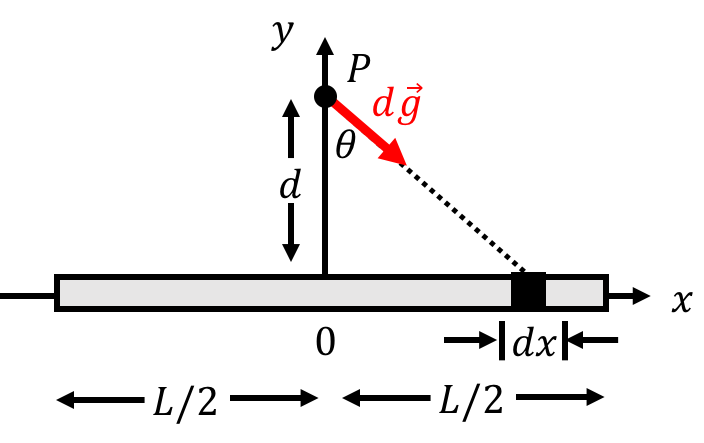
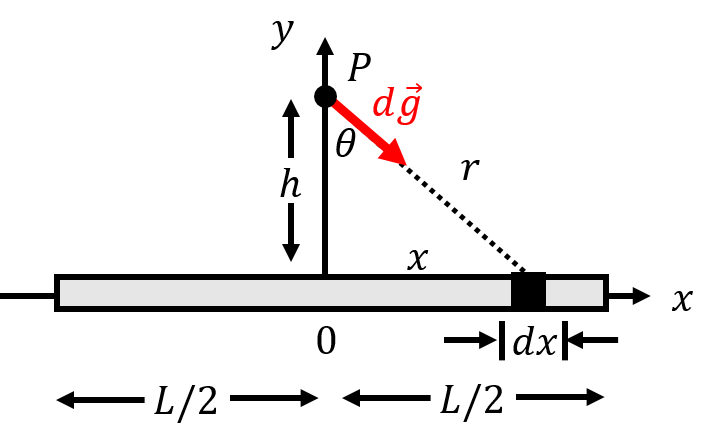
Gravity done

diff --git a/tex/Gravity.tex b/tex/Gravity.tex
@@ -233,13 +233,13 @@ Earth's rotation has some interesting consequences for stationary objects. At an
 
 Take, for example, a plumb line, which consists of a mass hanging from a string. The two forces acting on the mass are gravity and tension. The force of gravity must point towards the centre of the Earth. We would expect that the force of tension, and therefore the string, would point directly away from the centre of the Earth. However, we find that if the plumb line is located at some angle $\theta$ from the equator (but not at the equator or poles), as in Figure \ref{fig:gravity:apparentweight2}, then the string will point slightly away from the centre of the Earth.  In order for the mass to remain stationary relative to the ground, it must rotate along with the Earth (radius $R$) around a circle of radius $R\cos\theta$.   Thus, the tension from the string cannot point away from the centre of the Earth, because the net force must point towards the centre of the circle of radius $R\cos\theta$.
 
-\capfig{0.8\textwidth}{figures/Gravity/apparentweight2.png}{\label{fig:gravity:apparentweight2}Away from the equator and poles, a plumb line (right) does not point towards the centre of the Earth, because a component of the tension must provide acceleration towards the centre of the circle (of radius $R\sin\theta$) about which the plumb line rotates due to the Earth's rotation. Note that the deflection of the plumb line is exaggerated}
-%%%%%%%%%%%Review from here
+\capfig{0.8\textwidth}{figures/Gravity/apparentweight2.png}{\label{fig:gravity:apparentweight2}Away from the equator and poles, a plumb line (right) does not point towards the centre of the Earth, because the net force on the mass must provide the acceleration towards the centre of the circle (of radius $R\cos\theta$) about which the plumb line rotates due to the Earth's rotation. Note that the deflection of the plumb line is highly exaggerated.}
+
 \begin{checkpoint}
-\begin{MCquestion}{You cut the string of the plumb line. Where does the mass land relative to it's initial latitude?}
-\item At the same latitude.
+\begin{MCquestion}{You cut the string of the plumb line. Where does the mass land relative to it's initial latitude (the angle $\theta$ in Figure \ref{fig:gravity:apparentweight2})? }
+\item At the same latitude.\correct
 \item Closer to the nearest pole.
-\item Closer to the equator. \correct
+\item Closer to the equator. %OW had this as correct?
 \end{MCquestion}
 \end{checkpoint}
 
@@ -250,7 +250,7 @@ The gravitational force exerted on a mass $m$ by a mass $M$ can be written as:
 \end{align*}
 if we define a coordinate system with the origin located at the centre of mass $M$ so that $\vec r$ is the position of $m$ relative to $M$. We can define the ``gravitational field'' at position, $\vec g(\vec r)$, of mass $M$ as the gravitational force per unit mass exerted by $M$:
 \begin{align}
-\Aboxed{\vec g(\vec r) = - \frac{GM}{r^2}\hat r}
+\Aboxed{\vec g(\vec r) = \frac{\vec F(\vec r)}{m} =  - \frac{GM}{r^2}\hat r}
 \end{align}
 The word ``field'' is just a mathematical term for a function that depends on position. Since $\vec g(\vec r)$ is a vector, we would refer to it as a ``vector field''.
 
@@ -272,10 +272,10 @@ m\vec g(R_\oplus)&= m\vec a\\
 but we see here why it more precise to refer to $g$ as the ``magnitude of the gravitational field at the surface of the Earth'' rather than ``the acceleration due to Earth's gravity''. It is also worth noting that the two are only equal if the gravitational mass (on the left of the equation in the second line) is the same as the inertial mass (on the right of the equation). The gravitational mass is the mass that appears in the gravitational force defined by Newton, whereas the inertial mass is the mass that appears with the acceleration in Newton's Second Law.
 
 \begin{checkpoint}
-\begin{MCquestion}{Two small objects with different masses, $m_1$ and $m_2$, are a located a distance $r$ from a nearby star. What can you say about the magnitude of the gravitational field and the magnitude of the gravitational force on $m_1$ and $m_2$?}
+\begin{MCquestion}{Two small objects with different masses, $m_1$ and $m_2$, are located a distance $r$ from a nearby star. What can you say about the magnitude of the gravitational field and the magnitude of the gravitational force on $m_1$ and $m_2$?}
 \item The field is different and the forces are different. 
 \item The field is different but the forces are the same.
-\item The field is the same but the forces are different.
+\item The field is the same but the forces are different.\correct
 \item The field is the same and the forces are the same. 
 \end{MCquestion}
 \end{checkpoint}
@@ -290,6 +290,7 @@ where we have introduced the total gravitational field:
 \vec g(\vec r) = \vec g_1(\vec r)+\vec g_2(\vec r)
 \end{align*}
 In other words, if there are multiple bodies that result in a non-negligible force of gravity, we can calculate their gravitational fields independently and sum them together to define a net gravitational field, $\vec g(\vec r)$, that models the net force of gravity from all of the bodies. The net gravitational force on a new body of mass $m'$ is then simply given by $m'\vec g(\vec r)$, and we do not need to add any more vectors together. For example, when calculating the motion of satellites that can be influenced by the force of gravity from both the Earth and the Moon, we simply need to calculate the net gravitational field from the Earth and Moon, and the motion of any satellite can then be modelled using that net gravitational field.
+\newpage
 \begin{checkpoint}
 \begin{MCquestion}{There are two planets located a distance $d$ apart. Position $A$ is located midway between the two planets. Position $B$ is located a distance $d/2$ from one of the planets, in the position shown in Figure \ref{fig:gravity:fieldAB}. How does the field at $A$ compare to the field at $B$?\capfig{0.7\textwidth}{figures/Gravity/fieldAB.png}{\label{fig:gravity:fieldAB}Two planets are a distance $d$ apart. We are considering the gravitational field at two positions, A and B, located near the planets.}}
 \item The magnitude of the field is the same at $A$ and $B$.
@@ -305,14 +306,14 @@ If a force is given by an inverse-square law, then Gauss' Law gives a way to det
 \begin{align*}
 \oint \vec g(\vec r) \cdot d\vec A = 4\pi G M^{enc}
 \end{align*}
-where the integral on the left is an integral over a ``closed surface''. That is, imagine taking a closed surface, $S$, and then taking a small element of that surface and drawing a vector $d\vec A$ that points outwards from the closed surface and has a magnitude equal to the area of that small surface, as illustrated in Figure \ref{fig:gravity:gauss}. You can then take the scalar product of that vector with the gravitational field, $\vec g(\vec r)$, at that point on the surface. If you sum all of those scalar products, you get the value of the integral on the left. Gauss' Law states that the value of that integral is equal $4 \pi G$ times the total mass that is enclosed by the surface. 
+where the integral on the left is an integral over a ``closed surface'' that completely surrounds the mass for which we want to determine the gravitational field. To evaluate the integral, imagine taking a closed surface, $S$, that surrounds the mass. The vector $d\vec A$ is defined as the vector that goes with a small element of that surface and points outwards from the closed surface. The magnitude of the vector is equal to the area of that small surface ($dA$), as illustrated in Figure \ref{fig:gravity:gauss}. You can then take the scalar product of $d\vec A$ with the gravitational field, $\vec g(\vec r)$, at that point on the surface. If you sum all of those scalar products, you get the value of the integral on the left. Gauss' Law states that the value of that integral is equal $4 \pi G$ times the total mass that is enclosed by the surface. 
 \newpage
 \begin{studentOpinion}{Olivia}
 If you want to know if a surface is closed, ask yourself if you could put water inside the surface and not be worried about it spilling out. For example, if you put water in a sphere or a cube , the water would not spill out even if you shook it around, so they are closed surfaces. A flat square is an open surface because there is no ``inside'' to even put the water in.  A bowl is an open surface because, though you can put water in it, the water could spill out. 
 \end{studentOpinion}
 We will go into more detail about Gauss' Law when we cover electromagnetism, but it is worth seeing how to use it in a simple scenario. Figure \ref{fig:gravity:gauss} shows a spherical body of mass $M$ and radius $R$ for which we would like to determine the value of the gravitational field at a distance $r$ from the centre of the body.
 \capfig{0.3\textwidth}{figures/Gravity/gauss.png}{\label{fig:gravity:gauss}Example of a spherical Gaussian surface, $S$, of radius $r$ centred about a body of mass $M$ and radius $R$. An element of the surface, $d\vec A$ is also shown along with the gravitational field, $\vec g(\vec r)$, at that point.}
-To do so, we draw a ``Gaussian surface'', $S$, that is a sphere with a radius $r$, and centred about the body. At any point on the surface, the area element vector $d\vec A$ points away from the centre of the spherical surface. The gravitational field vector will always point towards the centre of the spherical surface. Furthermore, by symmetry, the magnitude of $\vec g(\vec r)$ is constant along the whole Gaussian surface. Thus, the scalar product $\vec g(\vec r) \cdot d\vec A=-g(r)dA$ everywhere along the surface (it is negative because the two vectors are anti-parallel). The integral is thus given by:
+To do so, we draw a ``Gaussian surface'', $S$, that is a sphere with a radius $r$, and centred about the body. At any point on the surface, the area element vector $d\vec A$ points away from the centre of the spherical surface. The gravitational field vector, $\vec g(\vec r)$ will always point towards the centre of the spherical surface, as illustrated. Furthermore, by symmetry, the magnitude of $\vec g(\vec r)$ is constant along the whole Gaussian surface. Thus, the scalar product $\vec g(\vec r) \cdot d\vec A=-g(r)dA$ everywhere along the surface (it is negative because the two vectors are anti-parallel). The integral is thus given by:
 \begin{align*}
 \oint \vec g(\vec r) \cdot d\vec A = -g(r)\oint dA 
 \end{align*}
@@ -326,13 +327,13 @@ Inserting this into Gauss' Law, we find:
 -g(r)(4\pi r^2) &= 4\pi G M^{enc}\\
 \therefore g(r) &= - \frac{GM}{r^2}
 \end{align*}
-where $M^{enc}=M$ is the total mass enclosed by the Gaussian surface (in this case, the entire mass $M$ is enclosed). This is of course the result that we expected. Note that Gauss' Law is only easy to use if the system is highly symmetric (e.g. spherically symmetric), and that it does not give the direction of the field vector, which must be obtained from symmetry arguments. 
+where $M^{enc}=M$ is the total mass enclosed by the Gaussian surface (in this case, the entire mass $M$ is enclosed). This is of course the result that we expected and obtained earlier from Newton's formulation. Note that Gauss' Law is only easy to use if the system is highly symmetric (e.g. spherically symmetric), and that it does not give the direction of the field vector, which must be obtained from symmetry arguments. 
 \begin{studentOpinion}{Olivia} Here's an analogy to describe Gauss's Law for gravity: A famous celebrity is doing an event, and they attract a certain number of fans who want to get as close to the celebrity as possible. You put up a barricade around the celebrity. The gravitational field is represented by how crowded it is somewhere along the barricade. If a second celebrity is at the event, they will attract their own fans, so there will be more people around the barricade. The number of celebrities is kind of like the enclosed mass $M^{enc}$. 
 
 A photographer is coming to the event, and you told him to stand at some location that is a distance $r$ from the celebrities. The photographer wants to know how crowded it will be when he is standing behind the barricade at that location. Gauss's law gives us a way to figure this out. If you know which celebrities are at the event ($M^{enc}$), you can determine how many people will be there (this is like finding $4\pi GM^{enc}$). Then, if you can build a barricade such that the fans are evenly distributed around it, and you know how long that barricade is ($\oint dA$), you can easily calculate how crowded it will be at some point along the barricade (you can just divide the number of people by the length of the barricade). 
 \newpage
 The barricade represents our Gaussian surface and, like a Gaussian surface, it can be whatever shape we want as long as it encloses the celebrities and passes through the point we are interested in. If we want to make sure the people are spread out evenly, the shape of the barricade is going to depend on the specific case. Let's take the example of our single spherical body. This is analagous to having one celebrity at the event. Figure \ref{fig:gravity:barricadeanalogy} shows two possible barricades we could build. Although we can technically build the barricade on the left, it doesn't help us because the areas closer to the celebrity will be more crowded. Instead, we want to build the barricade on the right, which is a circle of radius $r$, because the fans are evenly spread out. This is why we use a spherical Gaussian surface when we're considering the field due to a spherical body - at any point a distance $r$ from the body, the field will be the same. (Note: Remember that, unlike the barricade, the Gaussian surface isn't a physical thing, so it won't affect the gravitational field. It is just a mathematical tool that allows us to take advantage of what the field already looks like.)
-\capfig{0.7\textwidth}{figures/Gravity/barricadeanalogy.png}{\label{fig:gravity:barricadeanalogy}A celebrity (black dot) attracts fans (grey dots). A photographer (dot labelled ``P'') stands behind the barricade a distance $r$ away. This shows two possible barricades we could build around the celebrity.}
+\capfig{0.7\textwidth}{figures/Gravity/barricadeanalogy.png}{\label{fig:gravity:barricadeanalogy}A celebrity (black dot) attracts fans (grey dots). A photographer (dot labelled ``P'') stands behind the barricade a distance $r$ away. This shows two possible barricades we could build around the celebrity. The density of the fans is not uniform for the barricade on the left, so we would not choose that shape to evaluate the Gaussian integral.}
 \end{studentOpinion}
 
 We can also use Gauss' Law to determine the gravitational field \textbf{inside} of the body of mass $M$ and radius $R$. This is illustrated in Figure \ref{fig:gravity:gauss2}, which shows a spherical Gaussian surface of radius $r$ that is \textbf{inside} of the body of mass $M$.
@@ -384,7 +385,7 @@ Mathematically, this is equivalent to the force that we considered in Example \r
 
 In order to determine the gravitational potential energy function for the mass $m$ in the presence of a mass $M$, we calculate the work done by the force of gravity on the mass $m$ over a path where the integral for work will be ``easy'' to evaluate, namely a straight line. Figure \ref{fig:gravity:potential} shows such a path in the radial direction, $r$, over which it will be easy to calculate the work done by the force of gravity from mass $M$ when mass $m$ moves from being a distance $r_A$ to a distance $r_B$ from the centre of mass $M$.
 \capfig{0.5\textwidth}{figures/Gravity/potential.png}{\label{fig:gravity:potential}Calculating the work done on a mass $m$ by the force of gravity exerted by mass $M$ when mass $m$ moves from a distance $r_A$ to a distance $r_B$ from the center of mass $M$.}
-The work done by the force of gravity is given by:
+The work done by the force of gravity on $m$ in going from $r_A$ to $r_B$ is given by:
 \begin{align*}
 W &= \int_{r_A}^{r_B}\vec F(r) \cdot d\vec r = \int_{r_A}^{r_B} \left(- G\frac{Mm}{r^2}\hat r \right)\cdot d\vec r =\int_{r_A}^{r_B} - G\frac{Mm}{r^2}dr\\
 &=\left[G\frac{Mm}{r} \right]_{r_A}^{r_B} =G\frac{Mm}{r_B} - G\frac{Mm}{r_A}
@@ -401,7 +402,7 @@ which is determined only up to a constant, $C$.
 
 A particularly useful choice of constant is $C=0$. This corresponds to choosing the potential energy to be zero only when $r$ goes to infinity. That is, the potential energy of mass $m$ is zero only when it is infinitely far away from mass $M$. The choice of constant $C$ corresponds to the (arbitrary) value of the potential energy when mass $m$ is infinitely far from mass $M$. When mass $m$ is not infinitely far away, it has \textbf{negative} potential energy (if $C=0$). This is not a problem! Remember, the only thing that is meaningful is a difference in potential energy, so the specific value of the potential energy has no meaning. The kinetic energy of an object, on the other hand, has to be positive.
 
-Recall that if there are no other forces acting on an object, that object will move in such a way to reduce its potential energy. If the object of mass $m$ is located at some distance $r$ from the object of mass $M$, the force of gravity will attract $m$ so that $r$ decreases. As $r$ decreases in magnitude, the potential energy becomes more negative (larger in magnitude, but further away from zero), and the potential energy will indeed decrease under the influence of gravity. The potential energy that we have found does have the correct properties.
+Recall that if there are no other forces acting on an object, that object will move in such a way to reduce its potential energy. If the object of mass $m$ is located at some distance $r$ from the object of mass $M$, the force of gravity will attract $m$ so that $r$ decreases. As $r$ decreases in magnitude, the potential energy becomes more negative (larger in magnitude, but further away from zero), and the potential energy of $m$ will indeed decrease as it accelerates due to the force of gravity. 
 
 \subsection{Mechanical energy with gravity}
 Unless noted otherwise, we will continue our discussion of gravitational potential energy with the particular choice of constant $C=0$:
@@ -416,7 +417,7 @@ E = U + K = -G\frac{Mm}{r}+\frac{1}{2}mv^2
 \end{align*}
 where the kinetic energy term is always positive. If gravity is the only force exerted on mass $m$, then the mechanical energy, $E$, as defined above, will be a constant. The mechanical energy of an object can give us insight into the possible motion of the object.
 
-Imagine launching a rocket upwards from the surface of the Earth; once all of the fuel has burnt up, the rocket's mechanical energy becomes constant as the rocket engine stops doing work on the rocket. As soon as the engine stops providing thrust, the rock will start to slow down as the force of gravity attracts the rocket back to Earth. If the rocket is going fast enough, it will be able to completely escape the Earth's gravitational pull and travel to infinity (we assume that there are no other planets or the Sun, just the Earth exists!). If, on the other hand, the rocket's speed is too low, it will eventually stop and fall back to Earth. This is the same thing that happens to you when you try to jump vertically. If you could jump hard enough, you would be able to escape the Earth's gravitational pull!
+Imagine launching a rocket straight upwards from the surface of the Earth; once all of the fuel has burnt up, the rocket's mechanical energy becomes constant as the rocket engine stops doing work on the rocket. As soon as the engine stops providing thrust, the rocket will start to slow down as the force of gravity attracts the rocket back to Earth. If the rocket is going fast enough, it will be able to completely escape the Earth's gravitational pull and travel to infinity (we assume that there are no other planets or the Sun, just the Earth exists!). If, on the other hand, the rocket's speed is too low, it will eventually stop and fall back to Earth. This is the same thing that happens to you when you try to jump vertically. If you could jump hard enough, you would be able to escape the Earth's gravitational pull!
 
 In terms of mechanical energy, we can ask ourselves if the mechanical energy of the rocket is large enough to escape the Earth's gravitational pull. Specifically, we can ask ourselves what the value of the rocket's kinetic energy would be when it reaches infinity. The kinetic energy of the rocket is given by:
 \begin{align*}
@@ -441,7 +442,7 @@ Finally, if the mechanical energy is greater than zero, then the rocket will hav
 \begin{MCquestion}{What is the escape velocity from the surface of the Earth?}
 \item $\SI{4.29e6}{km/s}$
 \item $\SI{1.25e5}{km/s}$
-\item $\SI{11.2}{km/s}$
+\item $\SI{11.2}{km/s}$\correct
 \item $\SI{9.81}{km/s}$
 \end{MCquestion}
 \end{checkpoint}
@@ -494,13 +495,13 @@ The possible orbits are illustrated in Figure \ref{fig:gravity:conical}, and are
 \section{Einstein's Theory of General Relativity}
 Newton's Universal Theory of Gravity was extremely successful at describing the motion of planets in the solar system, and allowed for high precision astronomy. For example, precision measurements of  Uranus's orbit showed that it appeared to be inconsistent with Newton's theory, unless the gravitational influence of another planet was included in the model. This led to the discovery of the planet Neptune. 
 
-However, some issues with Newton's theory were uncovered. The orbit of Mercury was shown to be different than what Newton's theory could describe, but searches for another planet (Vulcan) were unsuccessful. In addition, Albert Einstein's theory of Special Relativity, published in 1905, was found to be incompatible with Newton's theory of gravity. One of the consequences of Special Relativity is that nothing can propagate faster than the speed of light. Newton's Universal Theory of Gravity implies that the gravitational force is transmitted instantaneously. In Newton's theory, if the Sun suddenly disappeared, Earth would immediately ``fall out'' of its orbit, and we would immediately know that the Sun has disappeared. This would violate Special Relativity because there cannot be a mechanism that would allow us to know that the sun has disappeared that travels faster than the speed of the light. In other words, for the $\SI{8}{min}$ that are required for light to travel from the Sun to the Earth, we cannot know that the Sun has disappeared: only when we see the Sun disappear would the Earth be ``allowed'' to fall out of its orbit.
+However, some issues with Newton's theory were uncovered. The orbit of Mercury was shown to be different than what Newton's theory could describe, but searches for another planet (Vulcan) were unsuccessful. In addition, Albert Einstein's theory of Special Relativity, published in 1905, was found to be incompatible with Newton's theory of gravity. One of the consequences of Special Relativity is that nothing can propagate faster than the speed of light. Newton's Universal Theory of Gravity implies that the gravitational force is transmitted instantaneously. In Newton's theory, if the Sun suddenly disappeared, Earth would immediately ``fall out'' of its orbit, and we would immediately know that the Sun has disappeared. This would violate Special Relativity because there cannot be a mechanism that would allow us to know that the Sun has disappeared faster than it would take light to propagate from the Sun. In other words, for the $\SI{8}{min}$ that are required for light to travel from the Sun to the Earth, we cannot know that the Sun has disappeared: only when we literally see the Sun disappear would the Earth be ``allowed'' to fall out of its orbit.
 
 Einstein's Theory of General Relativity is a theory developed by Einstein in order to describe gravity in a way that is consistent with Special Relativity and the propagation of light. Einstein was famous for his ``thought experiments,'' which allow us to think about some of the implications of a theory, even if the experiments would be very difficult to carry out in practice. One such thought experiment is to consider what someone would observe in an accelerating frame of reference.
 
-Consider an observer in an elevator, as illustrated in Figure \ref{fig:gravity:elevator}. If the elevator is stationary at the surface of the Earth (left panel), and the observer is standing on a scale, they could measure their weight, $mg$, on the scale. The two forces on the observer are their weight and the normal force, which would be equal in magnitude since the observer is not accelerating. The normal force, read out by the scale, would thus correspond to their weight. To be more precise, the normal force would be equal to $m_gg$, where $m_g$ is the gravitational mass of the observer (that mass which is related to the force of gravity experienced by a mass).
+Consider an observer in an elevator, as illustrated in Figure \ref{fig:gravity:elevator}. If the elevator is stationary at the surface of the Earth (left panel), and the observer is standing on a scale, they could measure their weight, $mg$, on the scale. The two forces on the observer are their weight and the normal force, which would be equal in magnitude since the observer is not accelerating. The normal force, read out by the scale, would thus correspond to their weight. To be more precise, the normal force would be equal to $m_Gg$, where $m_G$ is the gravitational mass of the observer (that mass which is related to the force of gravity experienced by a mass).
 
-If the elevator was instead placed in empty space, and the elevator was accelerating upwards with an acceleration of $g$ (right panel), the observer would still be able to measure their weight by stepping on the scale. The only force on the observer is the normal force from the scale, which must be equal to its mass times their acceleration $N=ma=mg$, since the observer is accelerating with the elevator. In this case, it is the inertial mass of the observer, $m_i$, that comes into play, so the normal force read on the scale is $m_ig$.  
+If the elevator was instead placed in empty space, and the elevator was accelerating upwards with an acceleration of $g$ (right panel), the observer would still be able to measure their weight by stepping on the scale. The only force on the observer is the normal force from the scale, which must be equal to its mass times their acceleration $N=ma=mg$, since the observer is accelerating with the elevator. In this case, it is the inertial mass of the observer, $m_I$, that comes into play, so the normal force read on the scale is $m_Ig$.  
 
 \capfig{0.8\textwidth}{figures/Gravity/elevator.png}{\label{fig:gravity:elevator} Left: A person standing on a scale in an elevator at rest at the surface of the Earth. Right: A person in an elevator that is accelerating in empty space with the same acceleration as that due to gravity at the Earth's surface. The curvature of the light beam is exaggerated.}
 
@@ -518,7 +519,7 @@ Now imagine there's a second ladybug. Both bugs start at the middle of the ball 
 
 Objects that are moving in a gravitational field are actually following Newton's First Law (they are moving at constant velocity in a straight line and no force is exerted on them). It is strange and unexpected, but high precision measurements confirm that this correctly describes everything that we have measured!
 
-Einstein's theory was able to describe the orbit of Mercury, and the prediction that gravity leads to light following a curved path was confirmed by Eddington within five years of Einstein's theory being published. Another implication of the theory is that time goes by slower in the presence of a gravitational field. Clocks on Earth run slower than clocks in orbit (where the gravitational field is weaker). This effect is taken into account when using GPS to determine your position on Earth, since this is based on comparing the time that it takes signals to arrive to your position on Earth from different satellites.
+Einstein's theory was able to describe the orbit of Mercury, and the prediction that gravity leads to light following a curved path was confirmed by Eddington within five years of Einstein's theory being published. Another implication of the theory is that time goes by slower in the presence of a gravitational field. Clocks on Earth run slower than clocks in orbit (where the gravitational field is weaker). This effect is taken into account when using GPS to determine your position on Earth, since this is based on comparing the time that it takes signals to arrive to your position on Earth from different satellites. This is also somewhat reasonably well described in the movie ``Interstallar'', where time is seen to pass much faster for a set of astronauts in the vicinity of a black hole, where the gravitational field is strong.
 
 \newpage
 \section{Summary}
@@ -537,13 +538,13 @@ Newton described the attractive force of gravity exerted between two bodies of m
 \begin{align*}
 \vec F_{12}=-G\frac{M_1M_2}{r^2}\hat r_{21}
 \end{align*}
-where $\vec F_{12}$ is the force on body 1 from body 2, $r$ is the distance between the two bodies, and $\vec r_{21}$ is the vector from body 2 to body 1. The motion of a body under the influence of only this force will satisfy all of Kepler's Laws.
+where $\vec F_{12}$ is the force on body 1 from body 2, $r$ is the distance between the two bodies, and $\vec r_{21}$ is the vector from body 2 to body 1. The motion of a body under the influence of only this force will satisfy all of Kepler's Laws, if the body is gravitationally bound.
 
 The gravitational field, $\vec g(\vec r)$, from a body of mass $M$, is defined as the gravitational force that another body would experience per unit mass:
 \begin{align*}
-\vec g(\vec r)=-G\frac{M}{r^2}\hat r
+\vec g(\vec r)=\frac{\vec F(\vec r)}{m}=-G\frac{M}{r^2}\hat r
 \end{align*}
-The field can be used to determine the corresponding gravitational force, $\vec F_g$, that a body of mass $m$ would experience if located at a position $\vec r$ relative to the $M$:
+The field can be used to determine the corresponding gravitational force, $\vec F_g$, that a body of mass $m$ would experience if located at a position $\vec r$ relative to the body of mass $M$:
 \begin{align*}
 F_g = m \vec g(\vec r)
 \end{align*}
@@ -602,9 +603,9 @@ E = K + U = \frac{1}{2}mv^2 - G\frac{Mm}{r}
 
 \newpage
 \section{Thinking about the material}
-\subsection{Reflect and research}
 
-\begin{enumerate}
+\begin{chapteractivity}{Reflect and research}
+{
 \item When you look at the night sky, how can you tell the difference between a planet and a star?
 \item What was the relationship between Tycho Brahe and Johannes Kepler?
 \item How did Tycho Brahe collect all the data that Kepler used?
@@ -615,14 +616,15 @@ E = K + U = \frac{1}{2}mv^2 - G\frac{Mm}{r}
 \item Explain how the force of gravity from the moon results in tides on both sides of the Earth.
 \item Explain what an L1 Lagrange point is, and how it does not violate Kepler's Third Law.
 \item How did Eddington confirm that light follows a curved path in a gravitational field?
-\end{enumerate}
-\subsection{To try at home}
+}
+\end{chapteractivity}
 
-\begin{tQuestion}Try doing this \end{tQuestion}
-
-\subsection{To try in the lab}
-Theory project: Prove, based on Newton's Universal Theory of Gravity, that the motion of orbiting bodies is given by a conic section. 
-
+\begin{chapteractivity}{To try in the lab}
+{
+\item Theory project: Prove, based on Newton's Universal Theory of Gravity, that the motion of orbiting bodies is given by a conic section. 
+\item Write a computer simulation to plot the orbit of two bodies, and explore how the total mechanical energy of one object affects its motion. If the two bodies have the same mass, and both move, where is the focus of the conical section describing their respective paths?
+}
+\end{chapteractivity}
 \newpage
 \section{Sample problems and solutions}
 \subsection{Problems}
@@ -632,7 +634,7 @@ Theory project: Prove, based on Newton's Universal Theory of Gravity, that the m
 \begin{problem}{soln:gravity:geosyncenergy}{\label{prob:gravity:geosyncenergy}How much energy must be expended in order to place a satellite of mass $m=\SI{1000}{kg}$ in a geosynchronous circular orbit around the Earth, if the satellite is launched from the North Pole of the Earth? How much energy is this per kilogram of satellite placed in orbit?}
 \end{problem}
 
-\begin{problem}{soln:gravity:fieldrod}{\label{prob:gravity:fieldrod}Find an integral for the gravitational field due to a thin uniform rod of mass $M$ at point $P$, which is a distance $d$ above the midsection of the rod (Figure \ref{fig:gravity:rodfield}). You do not need to solve the integral!
+\begin{problem}{soln:gravity:fieldrod}{\label{prob:gravity:fieldrod}Find an expression for the gravitational field due to a thin uniform rod of mass $M$ at point $P$, which is a distance $h$ above the midsection of the rod (Figure \ref{fig:gravity:rodfield}).
 
 \capfig{0.5\textwidth}{figures/Gravity/rodfield.png}{\label{fig:gravity:rodfield}A thin rod of mass $M$ and length $L$ produces a gravitational field at a point $P$ located above the midsection of the rod.}}
 \end{problem}
@@ -677,15 +679,15 @@ Thus, geosynchronous satellites are located at an altitude of approximately $\SI
 \end{solution}
 
 \begin{solution}{prob:gravity:geosyncenergy}\label{soln:gravity:geosyncenergy}
-We need to calculate how much work must be done for the satellite to go from being at rest at the surface of the Earth to being in a geosynchronous orbit. That work will be done by a non-conservative force (a rocket engine). The work done by the non-conservative force, $W$, is equal to the satellite's change in energy:
+We need to calculate how much work must be done for the satellite to go from being at rest at the surface of the Earth to being in a geosynchronous orbit. That work will be done by a non-conservative force (a rocket engine). The work done by the non-conservative force, $W$, is equal to the satellite's change in mechanical energy:
 \begin{align*}
 W = \Delta E = E_B -E_A
 \end{align*}
-The initial energy of the satellite, $E_A$, is given by:
+The initial mechanical energy of the satellite, $E_A$, is given by its gravitational potential energy (it has no kinetic energy at the surface of the Earth when at the North Pole - on the equator, it would have kinetic energy due to the Earth's rotation):
 \begin{align*}
 E_A = K + U = 0 - G\frac{Mm}{R_\oplus}
 \end{align*}
-where $M=\SI{5.97e24}{kg}$ is the mass of the Earth, and $R_\oplus=\SI{6.731e6}{m}$ is the radius of the Earth. Initially, the rocket is at rest, and so all of the mechanical energy is potential energy. 
+where $M=\SI{5.97e24}{kg}$ is the mass of the Earth, and $R_\oplus=\SI{6.731e6}{m}$ is the radius of the Earth.  
 
 In orbit, the energy of the rocket, $E_B$, is given by:
 \begin{align*}
@@ -722,38 +724,58 @@ Our strategy will be to break the rod into very small segments of length $dx$. E
 
 The gravitational field due to each segment is given by:
 \begin{align*}
-d\vec g=-\frac{G\cdot dM}{r^2}\hat{r}
+d\vec g=-\frac{GdM}{r^2}\hat{r}
 \end{align*}
 The element of the field, $d\vec g$, will point in a different direction for each segment $dx$. You can conclude from Figure \ref{fig:gravity:rodfieldsoln} that, due to symmetry, the $x$ components of the field from each segment will cancel out (for the segment $dx$ shown in the diagram, there will be an identical segment on the other side of the rod). The net field will point in the $-\hat{y}$ direction, so we are only interested in the vertical component of $d\vec g$. Using our diagram, this means that we want to find the magnitude of $dg\cos\theta$: 
 \begin{align*}
-dg\cos\theta=\frac{G\cdot dM}{r^2}\cos\theta
+dg\cos\theta=\frac{G dM}{r^2}\cos\theta
 \end{align*}
-The distance from each segment to the point $P$ is represented by $r$. We can find this distance using the Pythagorean theorem:
+The magnitude of the gravitational field at point $P$ is thus given by:
 \begin{align*}
-r^2&=x^2+d^2\\
-\therefore dg\cos\theta&=-\frac{G\cdot dM}{x^2+d^2}\cos\theta
+g = \int dg\cos\theta =\int \frac{G dM}{r^2}\cos\theta
 \end{align*}
-We can also rewrite $\cos\theta$:
+The integral is written over $dM$, where both $r$, and $\theta$ are different for each different mass element, $dM$. We need to express any variable that changes for different mass elements in terms of a single variable of integration. We will choose $\theta$ as the variable of integration, and thus need to express $r$ and $dM$ in terms of $\theta$, $d\theta$, and other constants. 
+
+The distance, $r$, between $P$ and a mass element $dM$ located at angle $\theta$ is easily found to be:
 \begin{align*}
-\cos\theta&=\frac{d}{\sqrt{x^2+d^2}}\\
-\therefore dg\cos\theta&=\frac{GdM}{x^2+d^2}\cdot\frac{d}{\sqrt{x^2+d^2}}\\
-&=\frac{Gd}{(x^2+d^2)^{3/2}}dM
+r &= \frac{h}{\cos\theta}\\
+\therefore \frac{1}{r^2} &= \frac{\cos^2\theta}{h^2}
 \end{align*}
-We can find the magnitude of the field at $P$ by taking the sum of the contributions from each segment, using integration:
+
+$dM$ can easily be expressed in term of $dx$ (the length of the mass element in the $x$ direction) and $\lambda$, the mass per unit length of the rod:
 \begin{align*}
-g(x)=\int dg\cos\theta=\int_{x_1}^{x_2}\frac{Gd}{(x^2+d^2)^{3/2}}dM
+dM = \lambda dx = \frac{M}{L} dx
 \end{align*}
-We can easily write $dM$ in terms of $dx$ if we define $\lambda$ to be the linear density, so that $\lambda=M/L$. The mass of each segment will then be $dM=\lambda dx$. Our integral then becomes:
+
+We now need to express $dx$ in terms of $d\theta$. This can be found as follows, by first expressing $x$ in terms of $\theta$, and then taking the derivative of $x$ with respect to $\theta$
 \begin{align*}
-g(x)=\int_{x_1}^{x_2}\frac{G\lambda d}{(x^2+d^2)^{3/2}}dx
+x &= h\tan\theta\\
+\therefore \frac{dx}{d\theta}&=\frac{h}{\cos^2\theta}\\
+\therefore dx  &= \frac{h}{\cos^2\theta} d\theta
 \end{align*}
-We will integrate over the length of the rod. The way we have set up our axes, this means that our limits of integration will be $x=-L/2$ and $x=L/2$:
+Now that we have found the small change in $x$ that results from a small change in $\theta$, we can write the mass element, $dM$, in terms of the $d\theta$:
 \begin{align*}
-g(x)&=\int_{x=-L/2}^{x=L/2}\frac{G\lambda d}{(x^2+d^2)^{3/2}}dx\\
-&=\int_{x=-L/2}^{x=L/2}\frac{GM d}{L(x^2+d^2)^{3/2}}dx\\
-\therefore g(x)&=\frac{GMd}{L}\int_{x=-L/2}^{x=L/2}\frac{1}{(x^2+d^2)^{3/2}}dx
+dM = \frac{M}{L} dx = \frac{M}{L}  \frac{h}{\cos^2\theta} d\theta
 \end{align*}
-Where we substituted in $\lambda=M/L$. Our integral is now complete. We have the limits of integration and the expression is in terms of our known values.
+We can now write the integral in terms of $\theta$:
+\begin{align*}
+g = \int \frac{GdM}{r^2}\cos\theta&=G\int \frac{1}{r^2}\cos\theta dM\\
+&=G\int \left( \frac{\cos^2\theta}{h^2} \right)\cos\theta \left(\frac{M}{L}  \frac{h}{\cos^2\theta}  \right)\\
+&=\frac{GM}{Lh}\int\cos\theta d\theta
+\end{align*}
+Now that we have the integral over $\theta$, we need to set the limits to correspond to the values of $\theta$ at each end of the rod. The angle will have the same magnitude for each end of the rod, $\theta _0$, given by:
+\begin{align*}
+\sin\theta_0 =\frac{L}{2\sqrt{h^2 + \frac{L^2}{4}}}
+\end{align*}
+The magnitude of the field is thus given by:
+\begin{align*}
+g &=\frac{GM}{Lh}\int_{-\theta_0}^{\theta_0}\cos\theta d\theta = \frac{GM}{Lh} [\sin\theta]_{-\theta_0}^{\theta_0}\\
+&=\frac{2GM}{Lh} \sin\theta_0  = \frac{2GM}{Lh} \frac{L}{2\sqrt{h^2 + \frac{L^2}{4}}}
+\end{align*}
+The gravitational field at point $P$ is thus given by:
+\begin{align*}
+\vec g =  -\frac{2GM}{Lh} \frac{L}{2\sqrt{h^2 + \frac{L^2}{4}}}\hat y
+\end{align*}
 \end{solution}
 
 

diff --git a/tex/PhysicsArtOfModelling.tex b/tex/PhysicsArtOfModelling.tex
@@ -408,9 +408,9 @@
 
 \begin{document}
 \pagenumbering{gobble}
-\include{CoverPage}
+%\include{CoverPage}
 \pagenumbering{roman}
-\include{Preface}
+%\include{Preface}
 \tableofcontents
 \pagenumbering{arabic}
 
@@ -423,12 +423,12 @@
 %\include{ApplyingNewtonsLaws}
 %\include{WorkEnergy}
 %\include{PotentialEcons}
-%\include{Gravity}
+\include{Gravity}
 %\include{MomentumAndCM}
 %\include{RotationalDynamics}
 %\include{AngularMomentumRolling}
 %\include{SimpleHarmonicMotion}
-\include{Waves}
+%\include{Waves}
 
 %\include{FluidMechanics}
 %Electric charges and fields
